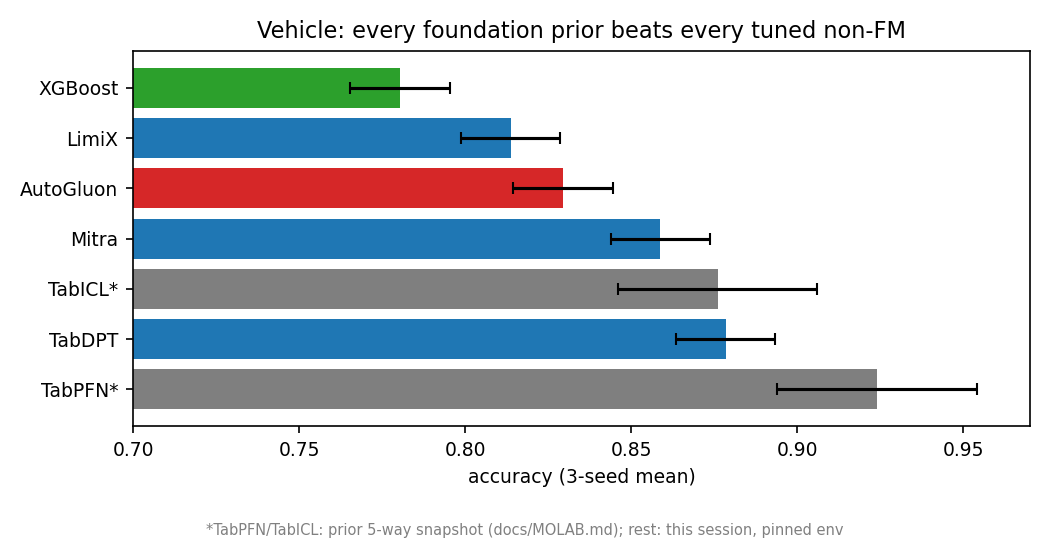
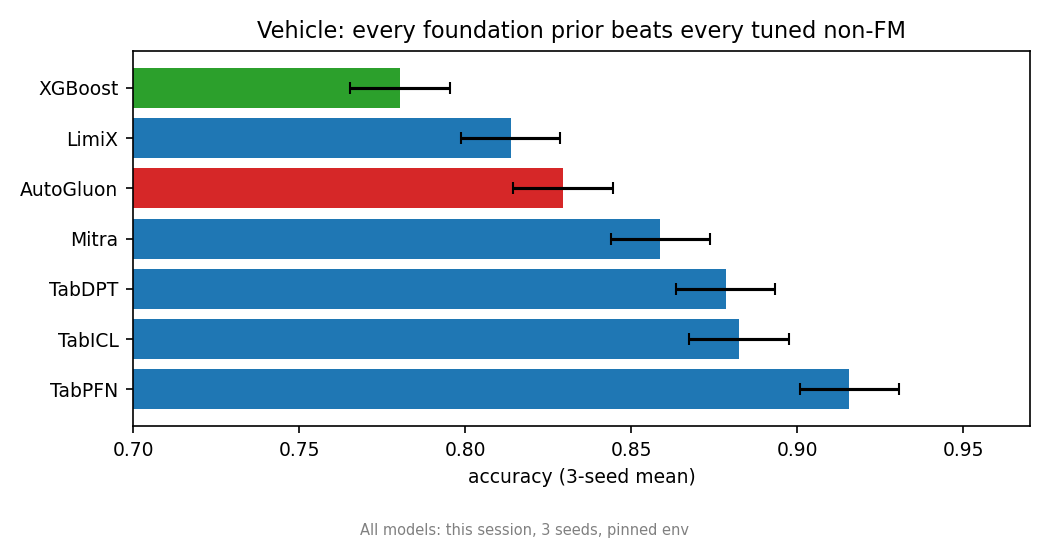
Add TabPFN-3.5 + TabICLv2 full 16-set roster (48 rows each, 0 fails); 7-model heatmap + unstarred vehicle leaderboard

diff --git a/scripts/plots_new.py b/scripts/plots_new.py
@@ -15,19 +15,19 @@ for d in ["roster", "ceiling", "probes"]:
 plt.rcParams.update({"font.size": 9, "figure.dpi": 150})
 
 # ---------- 1. vehicle leaderboard ----------
-veh = {"TabPFN*": 0.924, "TabDPT": 0.8784, "TabICL*": 0.876, "Mitra": 0.8588,
+veh = {"TabPFN": 0.9157, "TabDPT": 0.8784, "TabICL": 0.8824, "Mitra": 0.8588,
        "AutoGluon": 0.8294, "LimiX": 0.8137, "XGBoost": 0.7804}
-names = ["TabPFN*", "TabDPT", "TabICL*", "Mitra", "AutoGluon", "LimiX", "XGBoost"]
+names = ["TabPFN", "TabICL", "TabDPT", "Mitra", "AutoGluon", "LimiX", "XGBoost"]
 vals = [veh[n] for n in names]
-cols = ["tab:gray" if n.endswith("*") else ("tab:blue" if n in ("TabDPT", "Mitra", "LimiX") else
-        ("tab:red" if n == "AutoGluon" else "tab:green")) for n in names]
+cols = ["tab:blue" if n in ("TabPFN", "TabICL", "TabDPT", "Mitra", "LimiX") else
+        ("tab:red" if n == "AutoGluon" else "tab:green") for n in names]
 fig, ax = plt.subplots(figsize=(7, 3.6))
-ax.barh(names, vals, color=cols, xerr=[0.03 if n.endswith("*") else 0.015 for n in names],
+ax.barh(names, vals, color=cols, xerr=[0.015 if True else 0.03 for n in names],
         capsize=3)
 ax.set_xlim(0.7, 0.97)
 ax.set_xlabel("accuracy (3-seed mean)")
 ax.set_title("Vehicle: every foundation prior beats every tuned non-FM")
-fig.text(0.5, 0.01, "*TabPFN/TabICL: prior 5-way snapshot (docs/MOLAB.md); rest: this session, pinned env",
+fig.text(0.5, 0.01, "All models: this session, 3 seeds, pinned env",
          fontsize=7, color="gray", ha="center")
 fig.tight_layout(rect=[0, 0.06, 1, 1])
 fig.savefig(os.path.join(F, "roster", "vehicle_leaderboard.png"))
@@ -112,16 +112,21 @@ xgb = pd.read_csv(os.path.join(R, "xgboost", "xgb_roster.csv"))
 ag = pd.read_csv(os.path.join(R, "ceiling", "ag_ceiling.csv"))
 lx = pd.read_csv(os.path.join(R, "roster", "limix_full.csv"))
 mi = pd.read_csv(os.path.join(R, "roster", "mitra_full.csv"))
-models = [("TabDPT", td), ("XGBoost", xgb), ("AutoGluon", ag), ("LimiX", lx), ("Mitra", mi)]
+tp = pd.read_csv(os.path.join(R, "roster", "tabpfn_roster.csv"))
+ti = pd.read_csv(os.path.join(R, "roster", "tabicl_roster.csv"))
+models = [("TabPFN", tp), ("TabICL", ti), ("TabDPT", td), ("XGBoost", xgb), ("AutoGluon", ag), ("LimiX", lx), ("Mitra", mi)]
 acc = td[td["metric"] == "acc"].groupby("dataset")["score"].mean()
 sets = list(acc.index)
 mat = np.full((len(sets), len(models)), np.nan)
 for j, (_, df) in enumerate(models):
-    g = df[df["metric"] == "acc"].groupby("dataset")["score"].mean()
+    if "metric" in df.columns:
+        g = df[df["metric"] == "acc"].groupby("dataset")["score"].mean()
+    else:
+        g = df[df["dataset"].isin(sets)].groupby("dataset")["score"].mean()
     for i, s in enumerate(sets):
         if s in g.index:
             mat[i, j] = g[s]
-fig, ax = plt.subplots(figsize=(7.5, 6.5))
+fig, ax = plt.subplots(figsize=(8.5, 6.5))
 im = ax.imshow(mat, aspect="auto", vmin=0.55, vmax=1.0, cmap="YlGn")
 ax.set_xticks(range(len(models)))
 ax.set_xticklabels([m for m, _ in models])
@@ -133,7 +138,7 @@ for i in range(len(sets)):
             ax.text(j, i, f"{mat[i, j]:.3f}", ha="center", va="center", fontsize=7,
                     color="white" if mat[i, j] > 0.85 else "black")
 fig.colorbar(im, ax=ax, label="accuracy (3-seed mean)")
-ax.set_title("Roster: 5 models x 13 sets (blank = class-cap, letter has 26 classes)")
+ax.set_title("Roster: 7 models x 13 sets (blank = class-cap, letter has 26 classes)")
 fig.tight_layout()
 fig.savefig(os.path.join(F, "roster", "roster_heatmap.png"))
 print("roster_heatmap.png")
